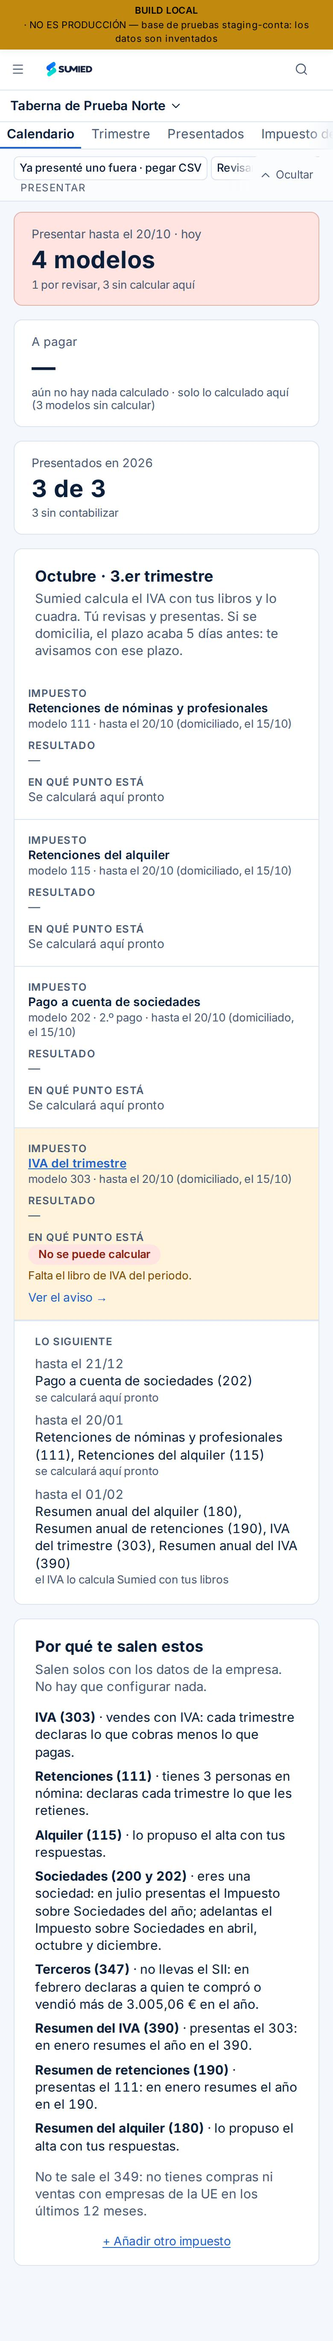
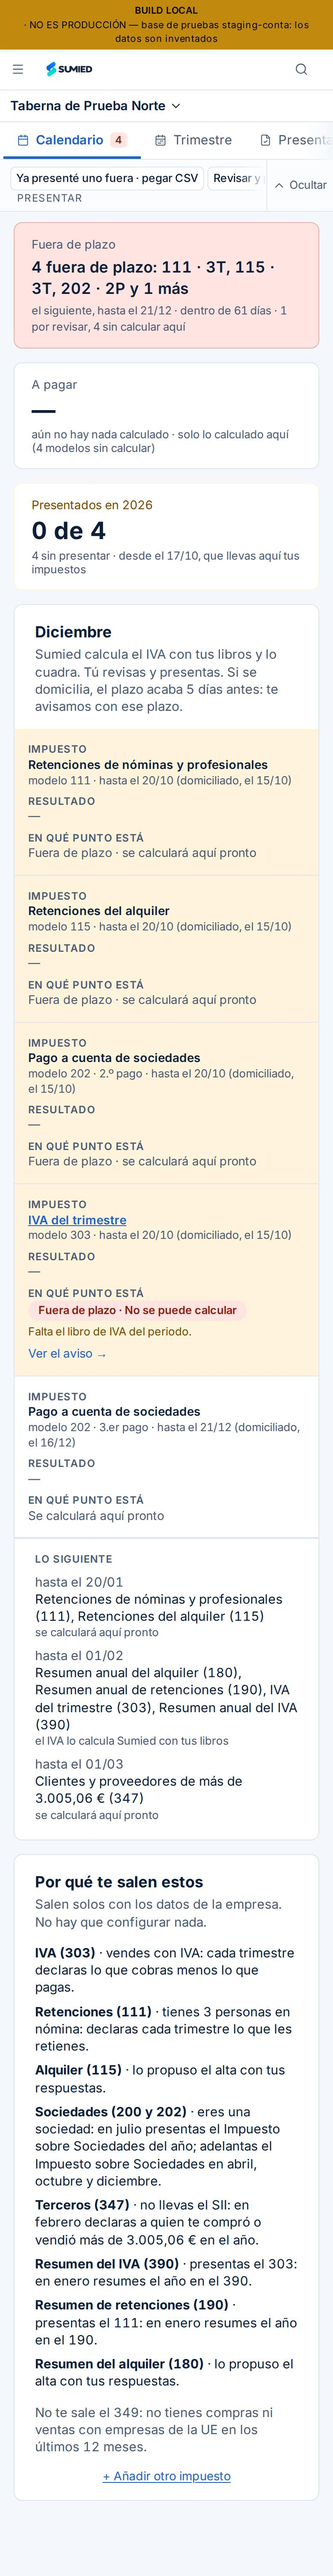
I01b · El recuadro del plazo: color por los días que quedan y, si hay algo fuera de plazo, lo dice primero (#265)
* I01b · El recuadro del plazo: color por los días que quedan y, si hay algo fuera de plazo, lo dice primero

- Rojo con 2 días o menos, ámbar con 15 o menos, neutro con más.
- Si hay algo fuera de plazo, el recuadro dice «N fuera de plazo: 202 · 2P…» en rojo, y el siguiente plazo debajo.
- ?hoy= solo en las bases de prueba, para la e2e.
- Unitaria contra el calendario real de staging (cuenta A, 21/10) y e2e nueva con capturas en ordenador y móvil.
- tiempos.json: s01f/pestanas y s01g/ancho medidos de la entera 39459913673; techo de los trozos a 15,5 min.

Claude-Session: https://claude.ai/code/session_01Y3y1CfV7qMMpwUy3CHjfmY

* Capturas fijadas en staging-conta (5b06d30, frente de conta/i01b-plazo)

---------

diff --git a/src/modules/conta/impuestos/calendario.ts b/src/modules/conta/impuestos/calendario.ts
@@ -285,18 +285,60 @@ const plural = (n: number, uno: string, varios: string) => `${n} ${n === 1 ? uno
 
 export interface Cifra { etiqueta: string; valor: string; apoyo: string; tono: TonoTarjeta; texto?: boolean }
 
-/** La primera: el plazo que toca, cuántos modelos y cómo están. */
+/**
+ * El color de un plazo (Julio, 20/10): rojo si vence en 2 días o menos; ámbar
+ * si quedan 15 o menos; si no, neutro. Lo fuera de plazo va siempre en rojo,
+ * pero eso lo decide cifraPlazo, que lo dice primero.
+ */
+export function tonoDePlazo(dias: number): TonoTarjeta {
+  return dias <= 2 ? 'falta' : dias <= 15 ? 'duda' : 'normal'
+}
+
+/** «202 · 2P»: el modelo y su periodo, como se nombran en la oficina. */
+const codigoDe = (f: Pick<FilaCalendario, 'modelo' | 'periodo'>) => `${f.modelo} · ${f.periodo}`
+
+/** «111 · 3T, 115 · 3T, 202 · 2P y 1 más»: hasta tres por su nombre. */
+function listaCodigos(fs: FilaCalendario[]): string {
+  const nombres = fs.slice(0, 3).map(codigoDe)
+  const resto = fs.length - nombres.length
+  if (resto > 0) return `${nombres.join(', ')} y ${resto} más`
+  return nombres.length > 1 ? `${nombres.slice(0, -1).join(', ')} y ${nombres[nombres.length - 1]}` : nombres.join('')
+}
+
+/**
+ * La primera: el plazo que toca, cuántos modelos y cómo están.
+ *
+ * Si hay algo fuera de plazo, el recuadro lo dice PRIMERO («1 fuera de plazo:
+ * 202 · 2P»), en rojo, y el siguiente plazo va debajo (Julio, 20/10: salía en
+ * rojo «Presentar hasta el 21/12 · dentro de 61 días» sin decir por qué). Si
+ * no, el plazo que toca, con el color de cuántos días quedan (tonoDePlazo).
+ */
 export function cifraPlazo(c: Calendario): Cifra {
   const pend = c.filas.filter(sinPresentar)
   if (c.filas.length === 0) return { etiqueta: 'Este mes', valor: 'Nada que presentar', apoyo: 'no hay ningún plazo cerca', tono: 'ok', texto: true }
   if (pend.length === 0) return { etiqueta: 'Este mes', valor: 'Todo presentado', apoyo: plural(c.filas.length, 'modelo', 'modelos') + ' en plazo', tono: 'ok', texto: true }
-  const domic = pend.filter((f) => f.domicilia && f.domiciliacion && f.domiciliacion >= c.hoy)
+  const domic = pend.filter((f) => !f.atrasado && f.domicilia && f.domiciliacion && f.domiciliacion >= c.hoy)
   const listos = pend.filter((f) => f.declaracion?.estado === 'reviewed').length
   const porRevisar = pend.filter((f) => f.se_calcula && f.declaracion?.estado !== 'reviewed').length
   const sinCalcular = pend.filter((f) => !f.se_calcula).length
   const estado = [listos ? `${listos} ${listos === 1 ? 'listo' : 'listos'}` : '', porRevisar ? `${porRevisar} por revisar` : '',
     sinCalcular ? `${sinCalcular} sin calcular aquí` : ''].filter(Boolean).join(', ')
-  const atrasados = pend.filter((f) => f.atrasado).length
+  const atrasados = pend.filter((f) => f.atrasado)
+  // El siguiente plazo de lo que aún está en plazo: el de domiciliar si se domicilia y aún se puede; si no, el de presentar.
+  const enPlazo = pend.filter((f) => !f.atrasado)
+  const diaDe = (f: FilaCalendario) => (domic.includes(f) ? f.domiciliacion! : f.presentacion)
+  const siguiente = enPlazo.map(diaDe).sort()[0] ?? null
+
+  if (atrasados.length > 0) {
+    const sig = siguiente ? `el siguiente, hasta el ${diaMesCorto(siguiente)} · ${cuandoEs(diasHasta(c.hoy, siguiente))}` : ''
+    return {
+      etiqueta: 'Fuera de plazo',
+      valor: `${atrasados.length} fuera de plazo: ${listaCodigos(atrasados)}`,
+      apoyo: [sig, estado].filter(Boolean).join(' · '),
+      tono: 'falta',
+      texto: true,
+    }
+  }
   if (domic.length > 0) {
     const fecha = domic.map((f) => f.domiciliacion!).sort()[0]
     const dias = diasHasta(c.hoy, fecha)
@@ -306,19 +348,16 @@ export function cifraPlazo(c: Calendario): Cifra {
       etiqueta: `Domiciliados: presentar hasta el ${diaMesCorto(fecha)} · ${cuandoEs(dias)}`,
       valor: plural(domic.length, 'modelo', 'modelos'),
       apoyo: [estado, sinDom ? `sin domiciliar, hasta el ${diaMesCorto(sinDom)}` : resto ? `los demás, hasta el ${diaMesCorto(resto)}` : ''].filter(Boolean).join(' · '),
-      tono: dias <= 3 ? 'falta' : dias <= 7 ? 'duda' : 'normal',
+      tono: tonoDePlazo(dias),
     }
   }
-  const fecha = pend.filter((f) => !f.atrasado).map((f) => f.presentacion).sort()[0]
-  if (!fecha) {
-    return { etiqueta: 'Se ha pasado el plazo', valor: plural(atrasados, 'modelo', 'modelos'), apoyo: estado, tono: 'falta' }
-  }
+  const fecha = enPlazo.map((f) => f.presentacion).sort()[0]
   const dias = diasHasta(c.hoy, fecha)
   return {
     etiqueta: `Presentar hasta el ${diaMesCorto(fecha)} · ${cuandoEs(dias)}`,
     valor: plural(pend.length, 'modelo', 'modelos'),
-    apoyo: [estado, atrasados ? `${atrasados} fuera de plazo` : ''].filter(Boolean).join(' · '),
-    tono: atrasados || dias <= 3 ? 'falta' : dias <= 7 ? 'duda' : 'normal',
+    apoyo: estado,
+    tono: tonoDePlazo(dias),
   }
 }
 

diff --git a/tests/unit/modules/conta/i01b/calendario.test.ts b/tests/unit/modules/conta/i01b/calendario.test.ts
@@ -7,9 +7,11 @@
 // 2026 (3.er trimestre: domiciliado hasta el 15/10, presentar hasta el 20/10;
 // 202: 2.º pago hasta el 20/10, sin domiciliación).
 
+import { readFileSync } from 'node:fs'
+import { join } from 'node:path'
 import { describe, expect, it } from 'vitest'
 import {
-  cifraPago, cifraPlazo, cifraPresentados, lineaDeFila, loSiguiente, nombreDeFila, periodoEnPalabras, tituloVentana, vistaDeFila,
+  cifraPago, cifraPlazo, cifraPresentados, lineaDeFila, loSiguiente, nombreDeFila, periodoEnPalabras, tituloVentana, tonoDePlazo, vistaDeFila,
   type Calendario, type Declaracion, type FilaCalendario,
 } from '@/modules/conta/impuestos/calendario'
 
@@ -73,6 +75,35 @@ describe('el estado y la acción de cada fila', () => {
     expect(vistaDeFila(fila('202', 'instalments_202', '2P', { declaracion: dec({ estado: 'not_required', no_hace_falta: 'el impuesto de 2025 salió a cero' }) })).frase)
       .toBe('No hay que presentarlo: el impuesto de 2025 salió a cero')
     expect(vistaDeFila(fila('303', 'quarterly', '2T', { atrasado: true, declaracion: dec({}) }))).toMatchObject({ chip: { tono: 'falta', texto: 'Fuera de plazo · Borrador · cuadra con los libros' }, ambar: true })
+  })
+})
+
+describe('el recuadro del plazo: el color y lo fuera de plazo primero (Julio, 20/10)', () => {
+  // La cuenta de pruebas A de staging el 21/10, tal cual (fixtures/): el 3T y el 2.º pago del 202,
+  // fuera de plazo; el 3.er pago del 202, hasta el 21/12. Salía «Presentar hasta el 21/12 · dentro
+  // de 61 días», en rojo y sin decir por qué.
+  const A = JSON.parse(readFileSync(join(__dirname, 'fixtures/calendario-a-staging-20261021.json'), 'utf8')) as { hoy: string; filas: FilaCalendario[] }
+  it('con algo fuera de plazo, lo dice primero, en rojo, y el siguiente plazo debajo', () => {
+    expect(cifraPlazo(cal(A.filas, { hoy: A.hoy }))).toEqual({
+      etiqueta: 'Fuera de plazo',
+      valor: '4 fuera de plazo: 111 · 3T, 115 · 3T, 202 · 2P y 1 más',
+      apoyo: 'el siguiente, hasta el 21/12 · dentro de 61 días · 1 por revisar, 4 sin calcular aquí',
+      tono: 'falta',
+      texto: true,
+    })
+  })
+  it('uno solo: «1 fuera de plazo: 202 · 2P»', () => {
+    const solo = A.filas.filter((f) => !f.atrasado || (f.modelo === '202' && f.periodo === '2P'))
+    expect(cifraPlazo(cal(solo, { hoy: A.hoy }))).toMatchObject({ valor: '1 fuera de plazo: 202 · 2P', tono: 'falta' })
+  })
+  it('lo de la misma cuenta ya presentado: a 61 días del siguiente, neutro (no rojo)', () => {
+    const presentado = A.filas.map((f) => (f.atrasado ? { ...f, atrasado: false, declaracion: dec({ estado: 'filed', estado_texto: 'Presentado' }) } : f))
+    expect(cifraPlazo(cal(presentado, { hoy: A.hoy }))).toEqual({ etiqueta: 'Presentar hasta el 21/12 · dentro de 61 días', valor: '1 modelo', apoyo: '1 sin calcular aquí', tono: 'normal' })
+  })
+  it('el color: rojo con 2 días o menos, ámbar con 15 o menos, neutro con más', () => {
+    expect([0, 1, 2, 3, 15, 16, 61].map(tonoDePlazo)).toEqual(['falta', 'falta', 'falta', 'duda', 'duda', 'normal', 'normal'])
+    const a = (hoy: string) => cifraPlazo(cal([fila('303', 'quarterly', '3T')], { hoy })).tono
+    expect([a('2026-10-18'), a('2026-10-17'), a('2026-10-05'), a('2026-10-04')]).toEqual(['falta', 'duda', 'duda', 'normal'])
   })
 })
 

diff --git a/tests/e2e/conta/i01b/plazo.spec.ts b/tests/e2e/conta/i01b/plazo.spec.ts
@@ -1,0 +1,53 @@
+/// <reference lib="dom" />
+// tests/e2e/conta/i01b/plazo.spec.ts
+//
+// I01b · El recuadro «Presentar hasta…» del Calendario (Julio, 20/10: salía en
+// rojo aunque faltaran 61 días). El color, por los días que quedan: rojo con 2
+// o menos, ámbar con 15 o menos, neutro con más. Si hay algo fuera de plazo, el
+// recuadro lo dice PRIMERO («N fuera de plazo: 202 · 2P…»), en rojo, y el
+// siguiente plazo debajo. Con la cuenta A y Sumied, forzando el día con ?hoy=
+// (solo contra staging), en ordenador y en móvil.
+// Capturas en docs/conta/capturas/i01b.
+
+import { test, expect, type Page } from '@playwright/test'
+import { CUENTA_A, entrarComo } from '../sesion'
+
+const DIR = 'docs/conta/capturas/i01b'
+const lado = (page: Page) => ((page.viewportSize()?.width ?? 1440) < 768 ? 'movil' : 'ordenador')
+
+/** El primero de los tres recuadros del Calendario. */
+const recuadro = (page: Page) => page.locator('.s-impuestos-cifras .s-tarjeta-cifra').first()
+
+async function abrir(page: Page, hoy: string) {
+  await page.goto(`/conta/impuestos?marca=sumied&hoy=${hoy}`)
+  await expect(page.locator('.s-cab-empresa').first()).toBeVisible({ timeout: 30_000 })
+  await expect(recuadro(page)).toBeVisible({ timeout: 30_000 })
+  await page.evaluate(() => document.fonts.ready)
+}
+
+test.beforeEach(async ({ page }) => { await entrarComo(page, CUENTA_A.email) })
+
+test('el 21/10, con el 3T y el 202 · 2P fuera de plazo: lo dice primero, en rojo, y el siguiente (21/12) debajo', async ({ page }) => {
+  await abrir(page, '2026-10-21')
+  const r = recuadro(page)
+  await expect(r.locator('.s-tarjeta-cifra-etiqueta')).toHaveText('Fuera de plazo')
+  await expect(r.locator('.s-tarjeta-cifra-valor')).toContainText(/^\d+ fuera de plazo: .*202 · 2P/)
+  await expect(r.locator('.s-tarjeta-cifra-valor')).toContainText('el siguiente, hasta el 21/12 · dentro de 61 días')
+  await expect(r).toHaveAttribute('data-tono', 'falta')
+  // Nada se sale de la pantalla.
+  expect(await page.evaluate(() => document.documentElement.scrollWidth <= window.innerWidth)).toBe(true)
+  await r.scrollIntoViewIfNeeded()
+  await page.screenshot({ path: `${DIR}/plazo-fuera-${lado(page)}.png` })
+})
+
+test('el color, por los días que quedan hasta el 20/10: 2 o menos rojo, 15 o menos ámbar, más neutro', async ({ page }) => {
+  // Sin nada fuera de plazo antes del 20/10.
+  for (const [hoy, tono, nombre] of [['2026-10-18', 'falta', 'rojo'], ['2026-10-05', 'duda', 'ambar'], ['2026-10-01', null, 'neutro']] as const) {
+    await abrir(page, hoy)
+    const r = recuadro(page)
+    await expect(r.locator('.s-tarjeta-cifra-etiqueta')).toHaveText(/^Presentar hasta el 20\/10 · /)
+    if (tono) await expect(r).toHaveAttribute('data-tono', tono)
+    else await expect(r).not.toHaveAttribute('data-tono', /.+/)
+    await page.screenshot({ path: `${DIR}/plazo-${nombre}-${lado(page)}.png` })
+  }
+})

diff --git a/src/modules/conta/impuestos/Calendario.tsx b/src/modules/conta/impuestos/Calendario.tsx
@@ -22,7 +22,7 @@
 // octubre») van en la cinta de la pestaña, como en el resto del esqueleto.
 
 import { useMemo, useState } from 'react'
-import { Link } from 'react-router-dom'
+import { Link, useLocation } from 'react-router-dom'
 import { rutaImpuestos, rutaIvaPeriodo } from '@/config/navegacion'
 import { Boton, Campo, Chip, Dialogo, Selector, Tarjeta, TarjetaCifra, Texto } from '@/modules/conta/diseno'
 import { useEntradasEnCinta, useNivel } from '@/modules/conta/marco/nuevo/contexto'
@@ -33,9 +33,14 @@ import {
   tituloVentana, vistaDeFila, type Calendario as DatosCalendario, type FilaCalendario,
 } from './calendario'
 import { useCalendario } from './useCalendario'
+import { hoyDeLaPantalla } from './despacho/despacho'
+import { baseDeDatos } from '@/services/versionApp'
 
 export function Calendario({ companyId }: { companyId: string }) {
-  const { datos, error, recargar } = useCalendario(companyId)
+  // «Hoy»: el de verdad; `?hoy=` solo contra una base de pruebas (demo y capturas), como en el despacho.
+  const { search } = useLocation()
+  const { hoy, forzado } = useMemo(() => hoyDeLaPantalla(search, baseDeDatos().tipo !== 'pruebas'), [search])
+  const { datos, error, recargar } = useCalendario(companyId, forzado ? hoy : undefined)
   const nivel = useNivel()
 
   // La cinta: «Revisar y presentar los de octubre» lleva a la primera que pide algo.

diff --git a/src/modules/conta/impuestos/useCalendario.ts b/src/modules/conta/impuestos/useCalendario.ts
@@ -7,18 +7,19 @@ import { useCallback, useEffect, useState } from 'react'
 import { leerCalendario } from '@/modules/conta/services/impuestosService'
 import type { Calendario } from './calendario'
 
-export function useCalendario(companyId: string): { datos: Calendario | null; error: string | null; recargar: () => void } {
+/** `hoy`: solo para forzar el día contra una base de pruebas (demo y capturas); si no, el de verdad. */
+export function useCalendario(companyId: string, hoy?: string): { datos: Calendario | null; error: string | null; recargar: () => void } {
   const [datos, setDatos] = useState<Calendario | null>(null)
   const [error, setError] = useState<string | null>(null)
   const [vuelta, setVuelta] = useState(0)
   const recargar = useCallback(() => setVuelta((v) => v + 1), [])
   useEffect(() => {
     let vivo = true
-    leerCalendario(companyId).then(
+    leerCalendario(companyId, hoy).then(
       (d) => { if (vivo) { setDatos(d); setError(null) } },
       (e: unknown) => { if (vivo) setError(e instanceof Error ? e.message : String(e)) },
     )
     return () => { vivo = false }
-  }, [companyId, vuelta])
+  }, [companyId, hoy, vuelta])
   return { datos, error, recargar }
 }

diff --git a/tests/unit/e2e/trozos.test.ts b/tests/unit/e2e/trozos.test.ts
@@ -49,7 +49,12 @@ describe('la entera en trozos', () => {
     // (este, 329 s: contaba como la mediana), y entra s01f/pestanas. La entera de 2 trozos
     // del P01 (run 39385193238, 5fd026cf) tardó 26,5 y 28,5 min en sus pruebas: 55,0 min,
     // unos 13,75 por trozo de 4; el reparto estimado da 14,0. El techo pasa a 14,5 min, con esa medida.
-    expect(Math.max(...seg) / 60).toBeLessThan(14.5)
+    // 20/10 (I01b): medidos ya s01f/pestanas (82 s) y s01g/ancho (51 s), que contaban
+    // como la mediana, y entran i01b/plazo, i01d/proveedor-extranjero e i01e/ficha-libro.
+    // La entera de 2 trozos del S01g (run 39459913673, 74e061c1) tardó 31,3 y 25,9 min
+    // en sus pruebas: 57,2 min, unos 14,3 por trozo de 4; el reparto estimado da 14,9.
+    // El techo pasa a 15,5 min, con esa medida.
+    expect(Math.max(...seg) / 60).toBeLessThan(15.5)
   })
 
   it('es determinista: cada trozo lo calcula por su cuenta y sale el mismo reparto', () => {
